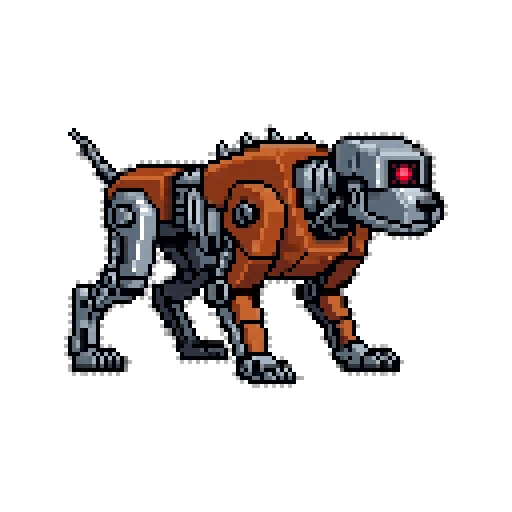
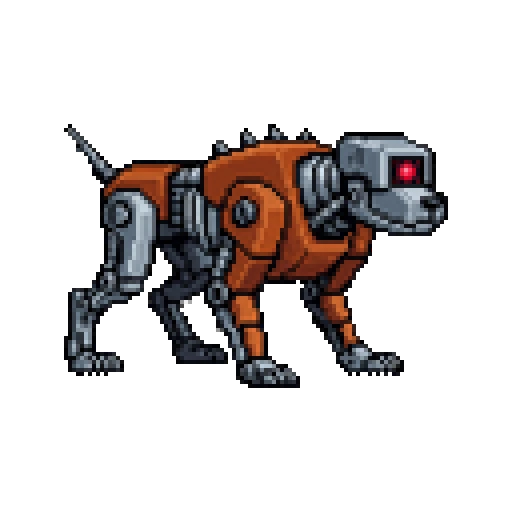
Все 20 врагов в пиксель-арте: цельные силуэты без дыр
- 10 новых спрайтов: скорпион-мутант, бандит-снайпер, дрон-разведчик,
  коготь смерти, плазменный элементаль, заражённый солдат, гигантская
  крыса, кибер-ниндзя, мутировавший медведь, сборщик металла
- у всех 20 проверено: одна связная силуэтная область, ноль прозрачных
  дыр внутри, ноль полупрозрачных пикселей, жёсткая альфа 0/255
- супермутант пересобран: возвращены ноги и набедренная повязка
- кибер-пёс и робот перевырезаны по заливке от краёв кадра
- artPixel проставлен всем 20 записям (карточка + модалка)
- CSS: image-rendering: pixelated для .enemy-art.pixel и
  .enemy-modal-art img.px (раньше правило не срабатывало)
- docs/enemies-preview.png перегенерирован: 20 пиксельных карточек

Changed region(s): [[0.125, 0.25, 0.875, 0.7812]]

diff --git a/index.html b/index.html
@@ -427,6 +427,12 @@
             filter: drop-shadow(0 4px 5px rgba(0, 0, 0, 0.85));
         }
 
+        /* Пиксельный арт врага не сглаживается */
+        #enemyGrid .enemy-art.pixel {
+            image-rendering: pixelated;
+            filter: drop-shadow(0 4px 5px rgba(0, 0, 0, 0.85));
+        }
+
         .card h3 {
             font-size: 12px;
             margin-bottom: 10px;
@@ -1006,6 +1012,11 @@
             filter: drop-shadow(0 0 14px rgba(255, 255, 255, 0.10));
         }
 
+        /* Пиксель-арт в модалке врага — без сглаживания */
+        .modal-content .pixel-img-wrapper.enemy-modal-art img.px {
+            image-rendering: pixelated;
+        }
+
         .modal-content h2 {
             color: var(--accent-red);
             margin-bottom: 20px;
@@ -1203,16 +1214,16 @@
             { name: "Каннибал", emoji: "🩸", art: "cannibal", artPixel: "cannibal-pixel", desc: "Безумный выживший. Атакует без предупреждения.", hp: "18", weapon: "Тесак", danger: "Средняя" },
             { name: "Культист Пустоши", emoji: "🧙", art: "cultist", artPixel: "cultist-pixel", desc: "Поклоняется радиации. Использует яды.", hp: "22", weapon: "Кинжал", danger: "Средняя" },
             { name: "Радиационный призрак", emoji: "👻", art: "rad-ghost", artPixel: "rad-ghost-pixel", desc: "Полупрозрачная сущность. Игнорирует броню.", hp: "15", weapon: "Прикосновение", danger: "Высокая" },
-            { name: "Скорпион-мутант", emoji: "🦂", art: "mutant-scorpion", desc: "Огромный ядовитый скорпион.", hp: "30", weapon: "Жало", danger: "Высокая" },
-            { name: "Бандит-снайпер", emoji: "🎯", art: "sniper-bandit", desc: "Стреляет издалека. Опасен на открытой местности.", hp: "20", weapon: "Винтовка", danger: "Высокая" },
-            { name: "Дрон-разведчик", emoji: "🛸", art: "scout-drone", desc: "Летающий робот. Сканирует местность.", hp: "10", weapon: "Нет", danger: "Низкая" },
-            { name: "Коготь Смерти", emoji: "🦖", art: "deathclaw", desc: "Апекс-хищник пустоши. Убегайте.", hp: "80", weapon: "Когти", danger: "Смертельная" },
-            { name: "Плазменный элементаль", emoji: "🔵", art: "plasma-elemental", desc: "Сгусток энергии. Наносит урон огнем.", hp: "35", weapon: "Плазма", danger: "Высокая" },
-            { name: "Зараженный солдат", emoji: "🪖", art: "infected-soldier", desc: "Бывший военный. Броня повреждена.", hp: "30", weapon: "Автомат", danger: "Высокая" },
-            { name: "Гигантская крыса", emoji: "🐀", art: "giant-rat", desc: "Переносчик болезней.", hp: "8", weapon: "Укус", danger: "Низкая" },
-            { name: "Кибер-ниндзя", emoji: "🥷", art: "cyber-ninja", desc: "Ассасин из старого мира. Невероятно быстр.", hp: "25", weapon: "Катана", danger: "Смертельная" },
-            { name: "Мутировавший медведь", emoji: "🐻", art: "mutant-bear", desc: "Огромный и злой. Нападает из засады.", hp: "60", weapon: "Когти", danger: "Смертельная" },
-            { name: "Сборщик металлолома", emoji: "🦾", art: "scrap-collector", desc: "Киборг, собирающий запчасти. Может быть торговцем.", hp: "40", weapon: "Дрель", danger: "Средняя" }
+            { name: "Скорпион-мутант", emoji: "🦂", art: "mutant-scorpion", artPixel: "mutant-scorpion-pixel", desc: "Огромный ядовитый скорпион.", hp: "30", weapon: "Жало", danger: "Высокая" },
+            { name: "Бандит-снайпер", emoji: "🎯", art: "sniper-bandit", artPixel: "sniper-bandit-pixel", desc: "Стреляет издалека. Опасен на открытой местности.", hp: "20", weapon: "Винтовка", danger: "Высокая" },
+            { name: "Дрон-разведчик", emoji: "🛸", art: "scout-drone", artPixel: "scout-drone-pixel", desc: "Летающий робот. Сканирует местность.", hp: "10", weapon: "Нет", danger: "Низкая" },
+            { name: "Коготь Смерти", emoji: "🦖", art: "deathclaw", artPixel: "deathclaw-pixel", desc: "Апекс-хищник пустоши. Убегайте.", hp: "80", weapon: "Когти", danger: "Смертельная" },
+            { name: "Плазменный элементаль", emoji: "🔵", art: "plasma-elemental", artPixel: "plasma-elemental-pixel", desc: "Сгусток энергии. Наносит урон огнем.", hp: "35", weapon: "Плазма", danger: "Высокая" },
+            { name: "Зараженный солдат", emoji: "🪖", art: "infected-soldier", artPixel: "infected-soldier-pixel", desc: "Бывший военный. Броня повреждена.", hp: "30", weapon: "Автомат", danger: "Высокая" },
+            { name: "Гигантская крыса", emoji: "🐀", art: "giant-rat", artPixel: "giant-rat-pixel", desc: "Переносчик болезней.", hp: "8", weapon: "Укус", danger: "Низкая" },
+            { name: "Кибер-ниндзя", emoji: "🥷", art: "cyber-ninja", artPixel: "cyber-ninja-pixel", desc: "Ассасин из старого мира. Невероятно быстр.", hp: "25", weapon: "Катана", danger: "Смертельная" },
+            { name: "Мутировавший медведь", emoji: "🐻", art: "mutant-bear", artPixel: "mutant-bear-pixel", desc: "Огромный и злой. Нападает из засады.", hp: "60", weapon: "Когти", danger: "Смертельная" },
+            { name: "Сборщик металлолома", emoji: "🦾", art: "scrap-collector", artPixel: "scrap-collector-pixel", desc: "Киборг, собирающий запчасти. Может быть торговцем.", hp: "40", weapon: "Дрель", danger: "Средняя" }
         ];
 
         // 10 News
